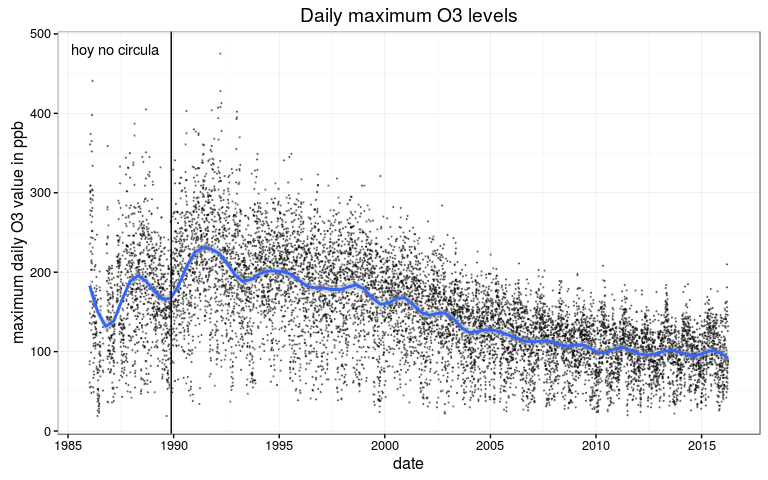
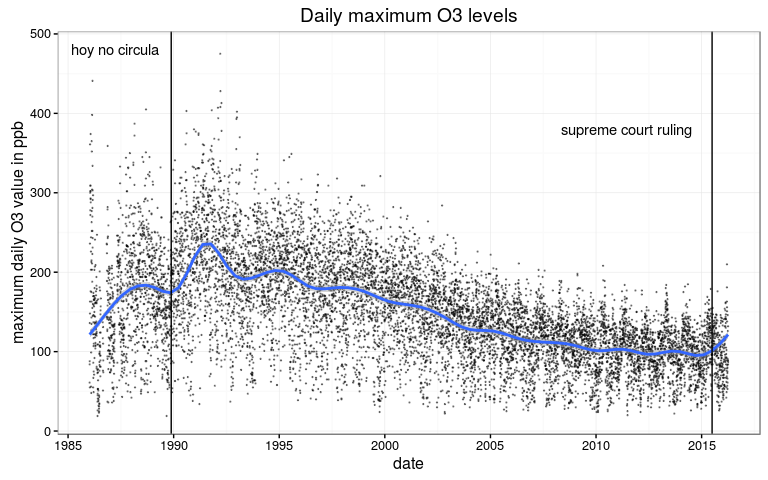
better chart

diff --git a/readme.md b/readme.md
@@ -96,14 +96,18 @@ pm10_max <- pm10 %>%
 ggplot(pm10_max, 
        aes(as.Date(date), max, group = 1)) +
   geom_point(color = "black", size = .2, alpha = .4) +
-  geom_smooth(method = "gam", formula = y ~ s(x, k = 40)) +
+  geom_smooth(method = "gam", formula = y ~ s(x, bs = "cc", k = 25)) +
   ggtitle("Daily maximum O3 levels") +
   ylab("maximum daily O3 value in ppb") +
   xlab("date") +
   geom_vline(xintercept = as.numeric(as.Date("1989-11-20"))) +
+  geom_vline(xintercept = as.numeric(as.Date("2015-07-01"))) +
   annotate("text", label = "hoy no circula", 
            x = as.Date("1987-03-20"),
            y = 480) +
+  annotate("text", label = "supreme court ruling", 
+           x = as.Date("2011-06-20"),
+           y = 380) +
   theme_bw()
 ```
 
